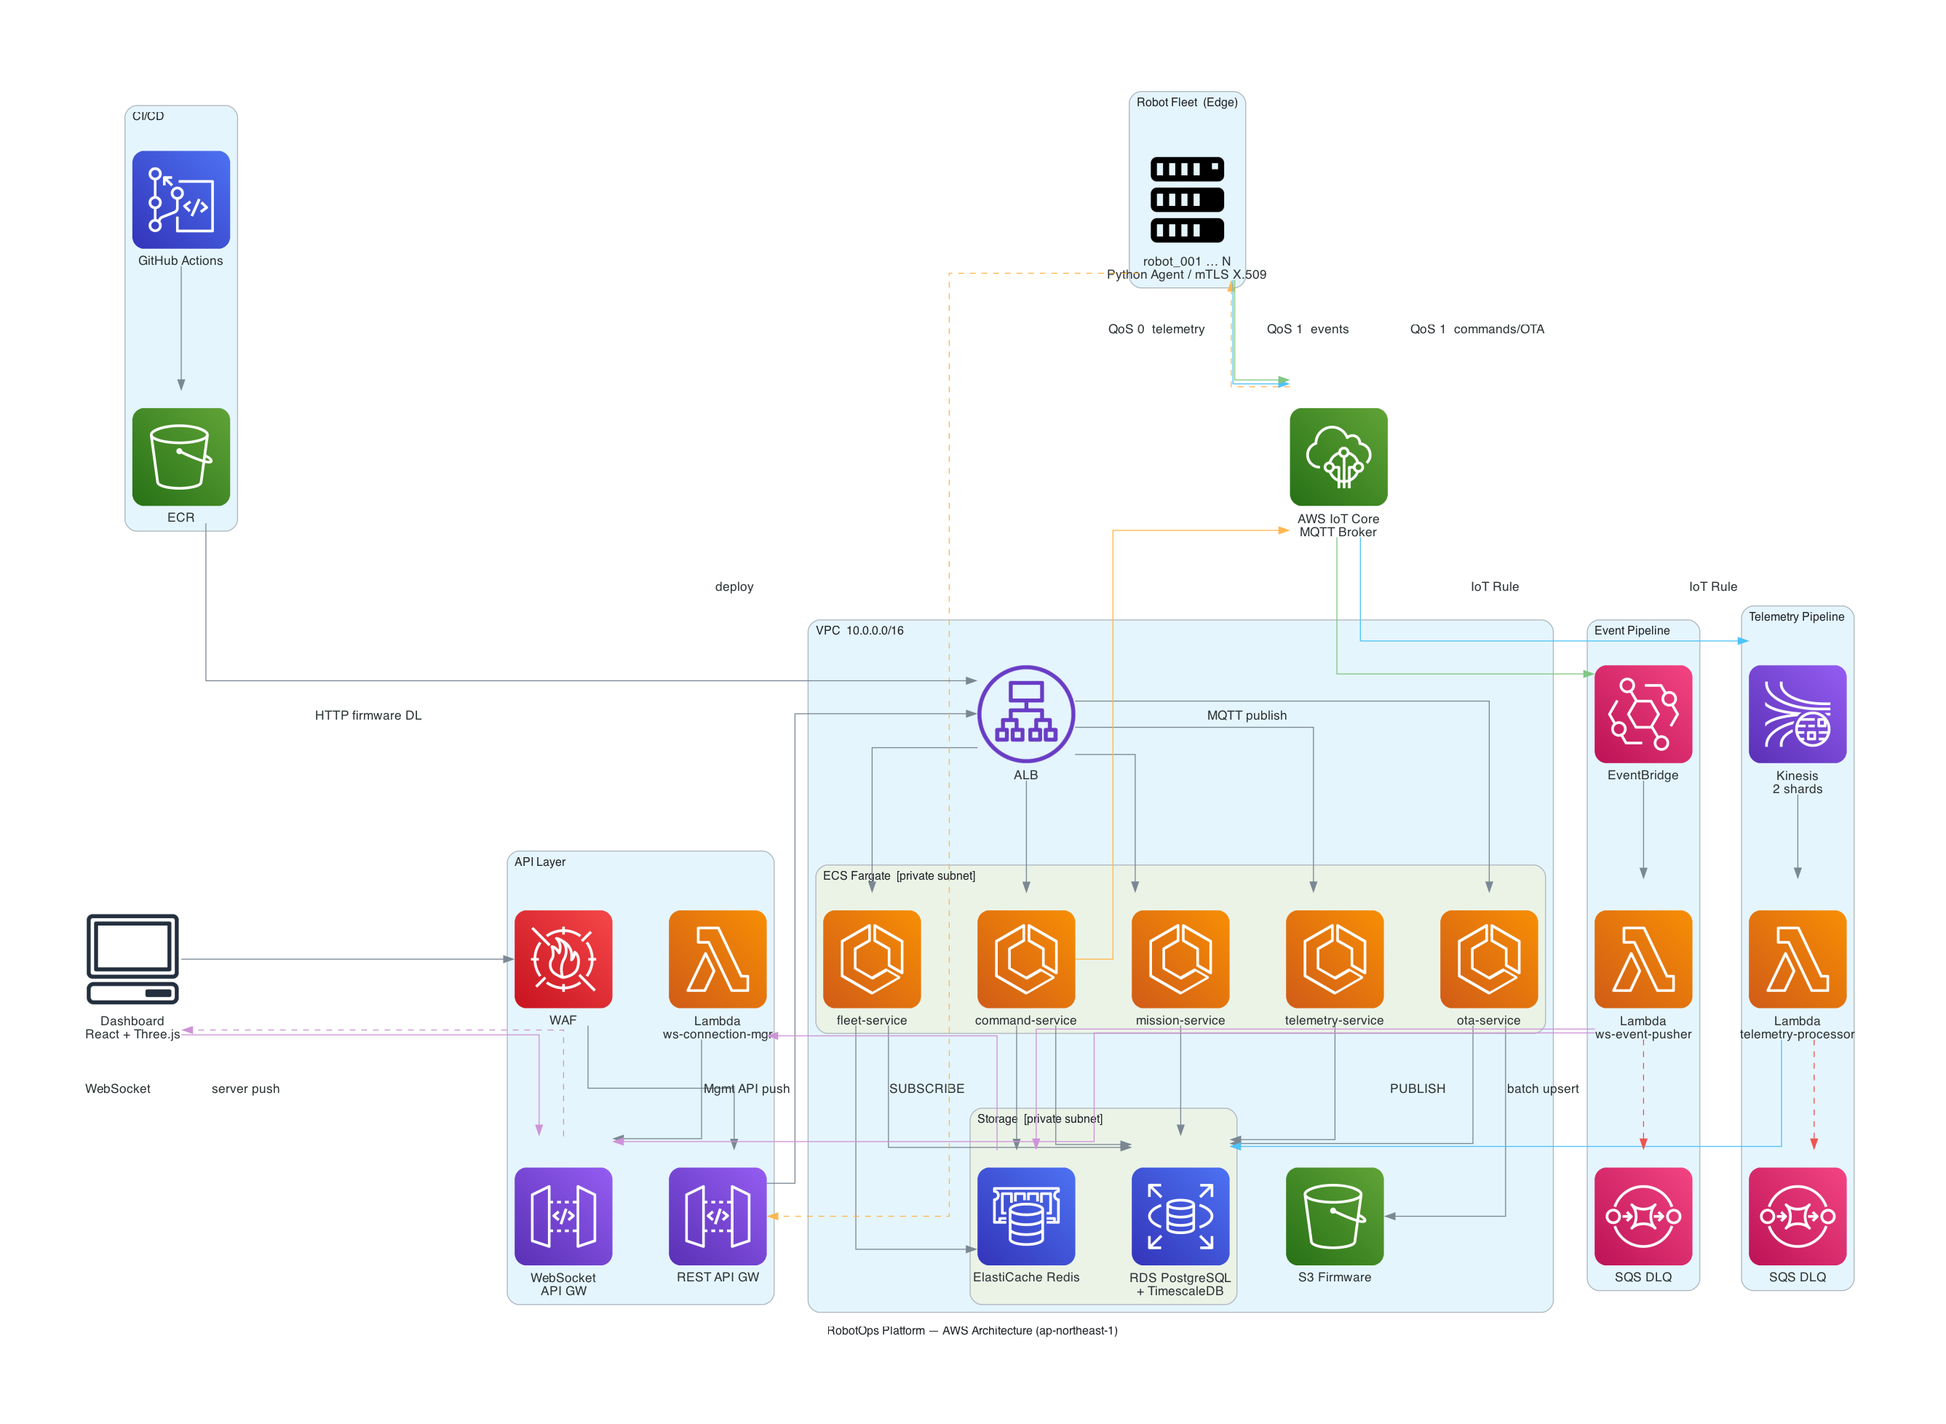
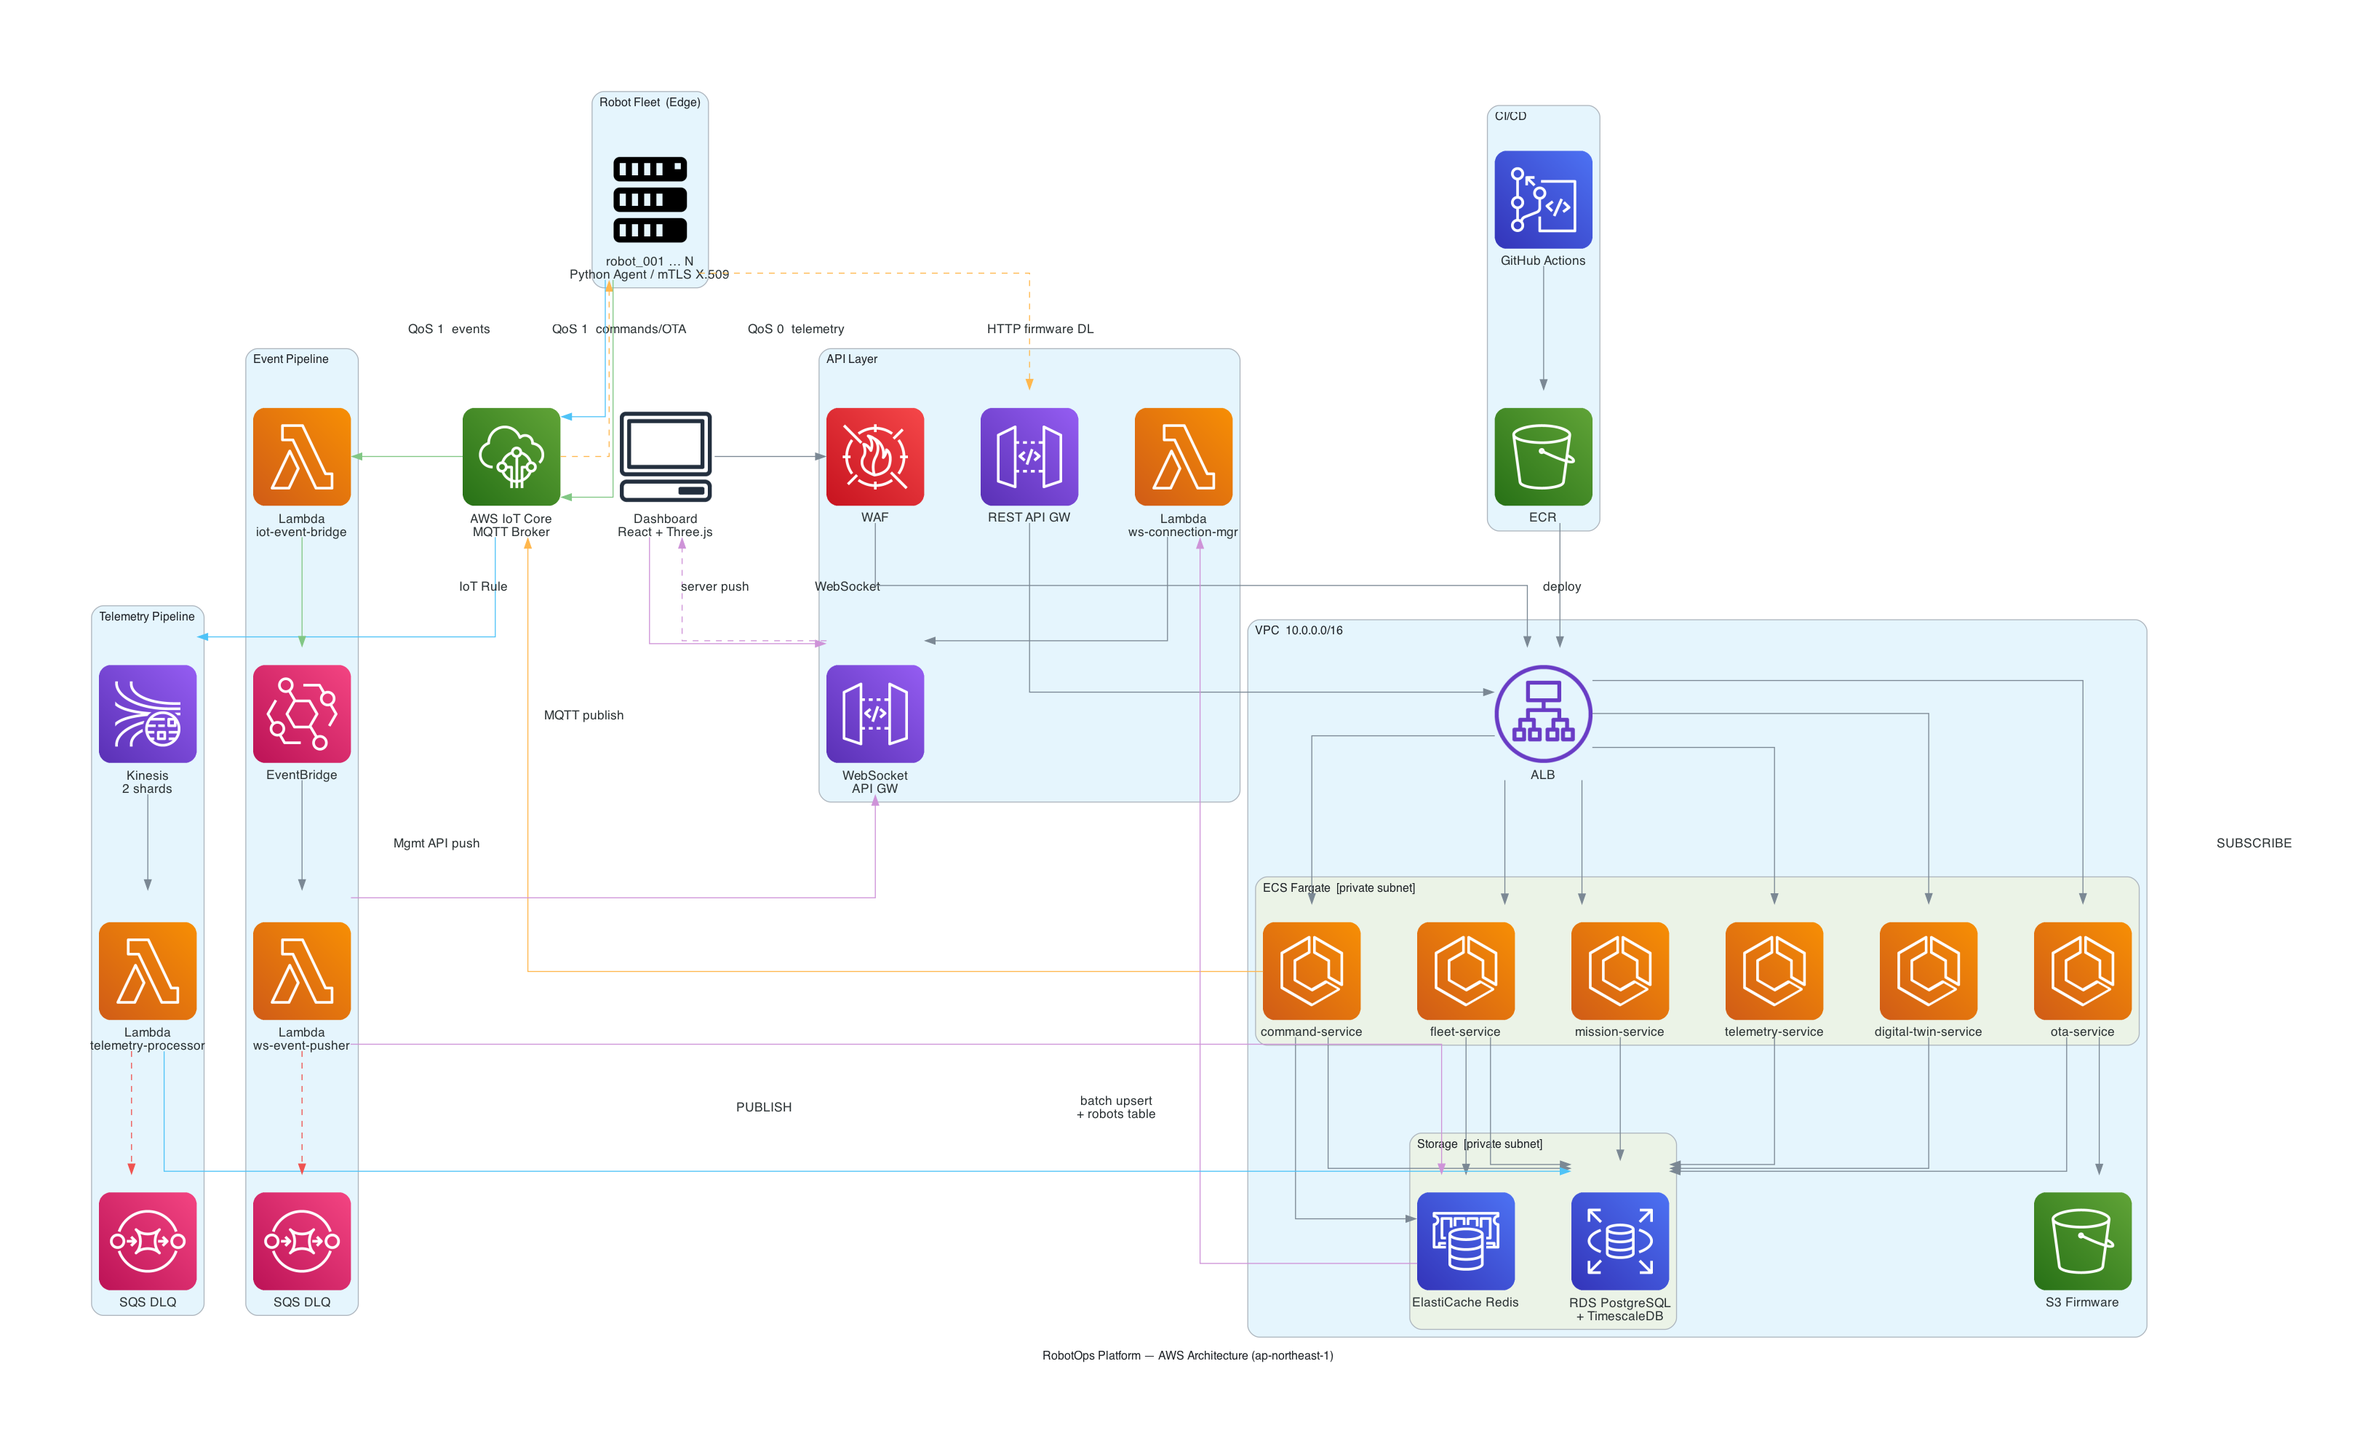
Update docs and AWS architecture diagram to reflect current config
- WAF now attached to ALB (HTTP API v2 not supported by WAFv2)
- Add Lambda iot-event-bridge in IoT→EventBridge pipeline
- Add digital-twin-service to ECS (6 services)
- Lambda telemetry-processor now upserts robots table
- Update DEPLOYMENT.md: Docker build for Lambda, IoT cert setup, remove Step 6
- Update architecture diagram PNG

diff --git a/docs/generate_aws_diagram.py b/docs/generate_aws_diagram.py
@@ -60,8 +60,9 @@ with Diagram(
                 ECS("command-service"),
                 ECS("telemetry-service"),
                 ECS("ota-service"),
+                ECS("digital-twin-service"),
             ]
-            fleet_svc, miss_svc, cmd_svc, telem_svc, ota_svc = svcs
+            fleet_svc, miss_svc, cmd_svc, telem_svc, ota_svc, twin_svc = svcs
 
         with Cluster("Storage  [private subnet]"):
             rds   = RDS("RDS PostgreSQL\n+ TimescaleDB")
@@ -76,6 +77,7 @@ with Diagram(
         dlq1    = SQS("SQS DLQ")
 
     with Cluster("Event Pipeline"):
+        liot_router = Lambda("Lambda\niot-event-bridge")
         evb   = Eventbridge("EventBridge")
         levt  = Lambda("Lambda\nws-event-pusher")
         dlq2  = SQS("SQS DLQ")
@@ -96,8 +98,8 @@ with Diagram(
     dashboard >> Edge(label="WebSocket", color="#ce93d8") >> ws_gw
     ws_gw >> Edge(label="server push", color="#ce93d8", style="dashed") >> dashboard
 
-    # API layer internal
-    waf >> rest_gw
+    # API layer internal — WAF attaches to ALB
+    waf >> alb
     rest_gw >> alb
 
     # WebSocket mgr
@@ -105,23 +107,24 @@ with Diagram(
     lconn >> ws_gw
 
     # ALB → ECS
-    alb >> [fleet_svc, miss_svc, cmd_svc, telem_svc, ota_svc]
+    alb >> [fleet_svc, miss_svc, cmd_svc, telem_svc, ota_svc, twin_svc]
 
     # ECS → Storage
-    [fleet_svc, miss_svc, cmd_svc, telem_svc, ota_svc] >> rds
+    [fleet_svc, miss_svc, cmd_svc, telem_svc, ota_svc, twin_svc] >> rds
     [fleet_svc, cmd_svc] >> redis
     ota_svc >> s3
 
     # command-service → IoT Core
     cmd_svc >> Edge(label="MQTT publish", color="#ffb74d") >> iot
 
-    # IoT Core ↔ Pipelines
+    # IoT Core → Pipelines
     iot >> Edge(label="IoT Rule", color="#4fc3f7") >> kinesis
-    iot >> Edge(label="IoT Rule", color="#81c784") >> evb
+    iot >> Edge(label="IoT Rule", color="#81c784") >> liot_router
+    liot_router >> Edge(color="#81c784") >> evb
 
     # Telemetry pipeline
     kinesis >> ltel
-    ltel >> Edge(label="batch upsert", color="#4fc3f7") >> rds
+    ltel >> Edge(label="batch upsert\n+ robots table", color="#4fc3f7") >> rds
     ltel >> Edge(color="#ef5350", style="dashed") >> dlq1
 
     # Event pipeline
@@ -141,4 +144,4 @@ with Diagram(
     # CI/CD
     github >> ecr >> Edge(label="deploy") >> alb
 
-print(f"✅  Saved: {output_path}.png")
+print(f"Saved: {output_path}.png")

diff --git a/docs/robotops-article.md b/docs/robotops-article.md
@@ -51,22 +51,27 @@ RobotOps = Robot + Ops → ロボットフリートの継続的運用
 ### フリート全体像
 
 ```
-ロボット (Python agent)
+ロボット (Python agent, TLS/mTLS X.509)
     │
-    │ MQTT (QoS 0/1)
+    │ MQTT over TLS (QoS 0/1)
     ▼
 [ローカル: Mosquitto / 本番: AWS IoT Core]
     │
-    ├─ telemetry (QoS 0, 毎秒) ──→ Kinesis → Lambda → TimescaleDB
+    ├─ telemetry (QoS 0, 毎秒) ──→ Kinesis → Lambda(telemetry-processor)
+    │                                              │
+    │                                    ┌─────────┴─────────┐
+    │                                    ▼                   ▼
+    │                              TimescaleDB          robots テーブル
+    │                             (履歴データ)        (現在位置/状態 upsert)
     │
-    └─ events   (QoS 1, 都度) ──→ EventBridge → fleet-service
-                                              → mission-service
-    │
-    ▼
-fleet-service / mission-service / command-service / ota-service
-    │
-    ▼
-Dashboard (React + Three.js)
+    └─ events   (QoS 1, 都度) ──→ Lambda(iot-event-bridge) → EventBridge
+                                                                │
+                                                  ┌─────────────┤
+                                                  ▼             ▼
+                                          fleet-service   ws-event-pusher
+                                                              │
+                                                              ▼
+                                                       WebSocket → Dashboard
 ```
 
 一見複雑に見えるが、各コンポーネントが解いている問題は明快だ。
@@ -253,6 +258,7 @@ flowchart TB
         end
 
         subgraph EVT_PIPE["⚡ Event Pipeline"]
+            L_IOT_ROUTER["Lambda\niot-event-bridge"]
             EVB["EventBridge"]
             L_EVT["Lambda\nws-event-pusher"]
             DLQ_EVT["SQS DLQ"]
@@ -273,6 +279,7 @@ flowchart TB
                 CS["command-service"]
                 TS["telemetry-service"]
                 OTA_SVC["ota-service"]
+                DT_SVC["digital-twin-service"]
             end
 
             RDS[("RDS PostgreSQL\n+ TimescaleDB\n[private subnet]")]
@@ -303,11 +310,12 @@ flowchart TB
 
     %% IoT Core → Pipelines
     IOT -- "IoT Rule: telemetry" --> KDS
-    IOT -- "IoT Rule: events" --> EVB
+    IOT -- "IoT Rule: events" --> L_IOT_ROUTER
+    L_IOT_ROUTER --> EVB
 
     %% Telemetry pipeline
     KDS --> L_TEL
-    L_TEL -- "batch upsert" --> RDS
+    L_TEL -- "batch upsert + robots table" --> RDS
     L_TEL -.->|"on failure"| DLQ_TEL
 
     %% Event pipeline
@@ -322,15 +330,15 @@ flowchart TB
 
     %% Dashboard REST
     UI -- "HTTPS" --> WAF
-    WAF --> REST_GW
+    WAF --> ALB
     REST_GW --> ALB
-    ALB --> FS & MS & CS & TS & OTA_SVC
+    ALB --> FS & MS & CS & TS & OTA_SVC & DT_SVC
 
     %% Dashboard WebSocket
     UI -- "WebSocket" --> WS_GW
 
     %% ECS → Storage
-    FS & MS & CS & TS & OTA_SVC --> RDS
+    FS & MS & CS & TS & OTA_SVC & DT_SVC --> RDS
     FS & CS --> REDIS
     OTA_SVC --> S3
 
@@ -348,8 +356,8 @@ flowchart TB
 
 | フロー | 経路 |
 |---|---|
-| **テレメトリ** | Robot → IoT Core → Kinesis → Lambda → TimescaleDB |
-| **イベント通知** | Robot → IoT Core → EventBridge → Lambda → Redis pub/sub → WebSocket → Dashboard |
+| **テレメトリ** | Robot → IoT Core → Kinesis → Lambda(telemetry-processor) → TimescaleDB / robots テーブル |
+| **イベント通知** | Robot → IoT Core → Lambda(iot-event-bridge) → EventBridge → Lambda(ws-event-pusher) → Redis pub/sub → WebSocket → Dashboard |
 | **コマンド送信** | Dashboard → WAF → REST API GW → ALB → command-service → IoT Core → Robot |
 | **OTA デプロイ** | Dashboard → WAF → REST API GW → ALB → ota-service → S3 |
 | **OTA ダウンロード** | Robot → REST API GW → ALB → ota-service (← S3) |
@@ -366,7 +374,7 @@ flowchart TB
 |---|---|---|
 | MQTT ブローカー | Mosquitto (Docker) | AWS IoT Core |
 | テレメトリ受信 | MQTT Bridge (fleet-service 内) | Kinesis → Lambda |
-| イベント処理 | MQTT Bridge → HTTP | IoT Core HTTP Action → fleet-service |
+| イベント処理 | MQTT Bridge → HTTP | IoT Core → Lambda(iot-event-bridge) → EventBridge → fleet-service |
 | ロボット認証 | なし (開発用) | mTLS X.509 証明書 |
 | WebSocket | command-service (直接) | API Gateway WebSocket |
 | ストレージ | PostgreSQL (Docker) | RDS + TimescaleDB |
@@ -394,6 +402,7 @@ sequenceDiagram
     participant KDS as Kinesis
     participant LTEL as Lambda<br>telemetry-processor
     participant DB  as RDS / TimescaleDB
+    participant LROUTER as Lambda<br>iot-event-bridge
     participant EVB as EventBridge
     participant LEVT as Lambda<br>ws-event-pusher
     participant REDIS as Redis<br>ws:connections
@@ -409,7 +418,8 @@ sequenceDiagram
     LTEL->>DB: INSERT telemetry（時系列履歴）
 
     note over IOT: IoT Rule 2（リアルタイム経路）
-    IOT->>EVB: 転送
+    IOT->>LROUTER: IoT Rule → Lambda(iot-event-bridge)
+    LROUTER->>EVB: 転送
     EVB->>LEVT: 起動
     LEVT->>REDIS: SMEMBERS ws:connections
     REDIS-->>LEVT: [conn_id_1, conn_id_2, ...]
@@ -427,7 +437,8 @@ sequenceDiagram
 | 3 | **Kinesis** | 2 shards で最大 100 ロボット × 1 s を受け止める |
 | 4 | **Lambda telemetry-processor** | バッチで起動、RDS `robots` テーブルを UPSERT（最新状態） |
 | 5 | **Lambda telemetry-processor** | TimescaleDB `telemetry` テーブルに INSERT（時系列履歴） |
-| 6 | **AWS IoT Core** | IoT Rule 2 → **EventBridge** へも転送（リアルタイム経路） |
+| 6 | **AWS IoT Core** | IoT Rule 2 → **Lambda(iot-event-bridge)** へ転送（リアルタイム経路） |
+| 6a | **Lambda iot-event-bridge** | EventBridge へイベントを転送（IoT Core は EventBridge を直接ターゲットにできないため Lambda 経由） |
 | 7 | **Lambda ws-event-pusher** | EventBridge に起動される。Redis `ws:connections` から接続中ブラウザ ID を全取得 |
 | 8 | **WebSocket API GW** | `post_to_connection()` で各ブラウザに `telemetry_update` を push |
 | 9 | **Dashboard** | WebSocket メッセージ受信 → Three.js マップ・Recharts グラフをリアルタイム更新 |
@@ -477,7 +488,7 @@ sequenceDiagram
     IOT->>FS: events（robot/{id}/events）
     FS->>OTA: PATCH /ota/jobs/{id}（status: completed）
 
-    IOT->>EVB: IoT Rule（events）
+    IOT->>EVB: IoT Rule → Lambda(iot-event-bridge) → EventBridge
     EVB->>WS: Lambda ws-event-pusher
     WS-->>DASH: WebSocket push（OTA 完了通知）
 ```
@@ -537,7 +548,7 @@ sequenceDiagram
 
     loop 清掃中（毎秒テレメトリ）
         R->>IOT: MQTT QoS 0 — telemetry
-        IOT->>EVB: IoT Rule
+        IOT->>EVB: IoT Rule → Lambda(iot-event-bridge) → EventBridge
         EVB->>WS: Lambda ws-event-pusher
         WS-->>DASH: WebSocket push（進捗更新）
     end
@@ -545,7 +556,7 @@ sequenceDiagram
     R->>IOT: MQTT QoS 1 — MissionCompleted event
     IOT->>FS: events
     FS->>MS: PATCH /missions/{id}（status: completed）
-    IOT->>EVB: IoT Rule
+    IOT->>EVB: IoT Rule → Lambda(iot-event-bridge) → EventBridge
     EVB->>WS: Lambda ws-event-pusher
     WS-->>DASH: WebSocket push（ミッション完了）
 ```

diff --git a/docs/DEPLOYMENT.md b/docs/DEPLOYMENT.md
@@ -73,8 +73,17 @@ aws dynamodb create-table \
 `terraform apply` の前に必須。zip が存在しないと plan 時にエラーになる。
 
 ```bash
+# telemetry-processorはLinux用にDockerでビルドが必要
+cd lambda/telemetry-processor
+docker run --rm --platform linux/amd64 \
+  -v "$(pwd)":/out \
+  --entrypoint /bin/bash \
+  public.ecr.aws/lambda/python:3.11 \
+  -c "pip install -r /out/requirements.txt -t /tmp/pkg -q && cp /out/handler.py /tmp/pkg/ && cd /tmp/pkg && python3 -m zipfile -c /out/function.zip ."
+cd ../..
+
+# その他のLambdaは通常ビルド
 bash lambda/build.sh
-# → lambda/telemetry-processor/function.zip
 # → lambda/ws-connection-manager/function.zip
 # → lambda/ws-event-pusher/function.zip
 ```
@@ -123,16 +132,7 @@ git remote add origin https://github.com/<your-username>/autonomous_cleaning_rob
 
 ---
 
-### Step 6: terraform.tfvars のリポジトリ名を更新
-
-```bash
-# infrastructure/terraform/environments/dev/terraform.tfvars
-github_repo = "<your-username>/autonomous_cleaning_robot_fleet_platform"
-```
-
----
-
-### Step 7: GitHub Secrets を設定
+### Step 6: GitHub Secrets を設定
 
 ```bash
 export GITHUB_REPO=<your-username>/autonomous_cleaning_robot_fleet_platform
@@ -152,7 +152,7 @@ export GITHUB_REPO=<your-username>/autonomous_cleaning_robot_fleet_platform
 
 ---
 
-### Step 8: git push → CI/CD が全自動デプロイ
+### Step 7: git push → CI/CD が全自動デプロイ
 
 ```bash
 git add .
@@ -180,11 +180,71 @@ lambda-ci.yml
 
 ---
 
-### Step 9: 動作確認
+### Step 8: 動作確認
 
 ```bash
 terraform output dashboard_url
 # → ブラウザで開く
+```
+
+---
+
+### Step 9: IoT Core証明書のセットアップ（シミュレーター用）
+
+AWS IoT Coreへの接続に必要な証明書を発行する（1回のみ）。
+
+```bash
+# IoT Core証明書の発行（シミュレーター用、1回のみ）
+mkdir -p robot-agent/certs
+
+aws iot create-keys-and-certificate \
+  --set-as-active \
+  --region ap-northeast-1 \
+  --output json > /tmp/iot_cert.json
+
+python3 -c "
+import json
+d = json.load(open('/tmp/iot_cert.json'))
+open('robot-agent/certs/cert.pem','w').write(d['certificatePem'])
+open('robot-agent/certs/private.key','w').write(d['keyPair']['PrivateKey'])
+print('Certificate ARN:', d['certificateArn'])
+"
+
+# IoT Policyの作成とアタッチ
+CERT_ARN=$(python3 -c "import json; print(json.load(open('/tmp/iot_cert.json'))['certificateArn'])")
+
+aws iot create-policy \
+  --policy-name "robotops-dev-simulator-policy" \
+  --policy-document '{"Version":"2012-10-17","Statement":[{"Effect":"Allow","Action":["iot:Connect","iot:Publish","iot:Subscribe","iot:Receive"],"Resource":"*"}]}' \
+  --region ap-northeast-1
+
+aws iot attach-policy \
+  --policy-name "robotops-dev-simulator-policy" \
+  --target "$CERT_ARN" \
+  --region ap-northeast-1
+
+# Amazon Root CA取得
+curl -s https://www.amazontrust.com/repository/AmazonRootCA1.pem \
+  -o robot-agent/certs/AmazonRootCA1.pem
+
+echo "証明書セットアップ完了"
+```
+
+シミュレーター起動：
+
+```bash
+# IoT Coreエンドポイント確認
+IOT_ENDPOINT=$(aws iot describe-endpoint --endpoint-type iot:Data-ATS --region ap-northeast-1 --query endpointAddress --output text)
+
+# シミュレーター起動
+cd robot-agent
+python -m simulation.fleet_simulator \
+  --robots 5 \
+  --broker $IOT_ENDPOINT \
+  --port 8883 \
+  --cert certs/cert.pem \
+  --key certs/private.key \
+  --ca certs/AmazonRootCA1.pem
 ```
 
 ---
@@ -233,8 +293,6 @@ cd infrastructure/terraform/environments/dev
 terraform destroy
 ```
 
-> **注意**: terraform destroy ではS3バケット（ファームウェア・ダッシュボード）は削除されない場合がある。AWS Consoleから手動で削除すること。
-
 ---
 
 ## トラブルシューティング
@@ -246,4 +304,20 @@ terraform destroy
 → `bash lambda/build.sh` を先に実行すること。
 
 ### GitHub Actionsが `AWS_ROLE_ARN` エラーで失敗する
-→ Step 7の `setup_github_secrets.sh` が完了しているか確認。
+→ Step 6の `setup_github_secrets.sh` が完了しているか確認。
+
+### terraform destroy が ECR/S3 エラーで失敗する
+→ すでに `force_delete = true` / `force_destroy = true` が設定されているため通常は発生しない。
+  それでも失敗する場合は以下を手動実行：
+  ```python
+  python3 -c "
+  import subprocess, json
+  for svc in ['fleet-service','mission-service','telemetry-service','command-service','ota-service','digital-twin-service']:
+      repo = f'robotops-{svc}'
+      r = subprocess.run(['aws','ecr','describe-images','--repository-name',repo,'--region','ap-northeast-1','--output','json'], capture_output=True, text=True)
+      ids = [{'imageDigest': i['imageDigest']} for i in json.loads(r.stdout).get('imageDetails',[])]
+      if ids:
+          subprocess.run(['aws','ecr','batch-delete-image','--repository-name',repo,'--region','ap-northeast-1','--image-ids',json.dumps(ids)])
+          print(f'{repo}: cleared')
+  "
+  ```
